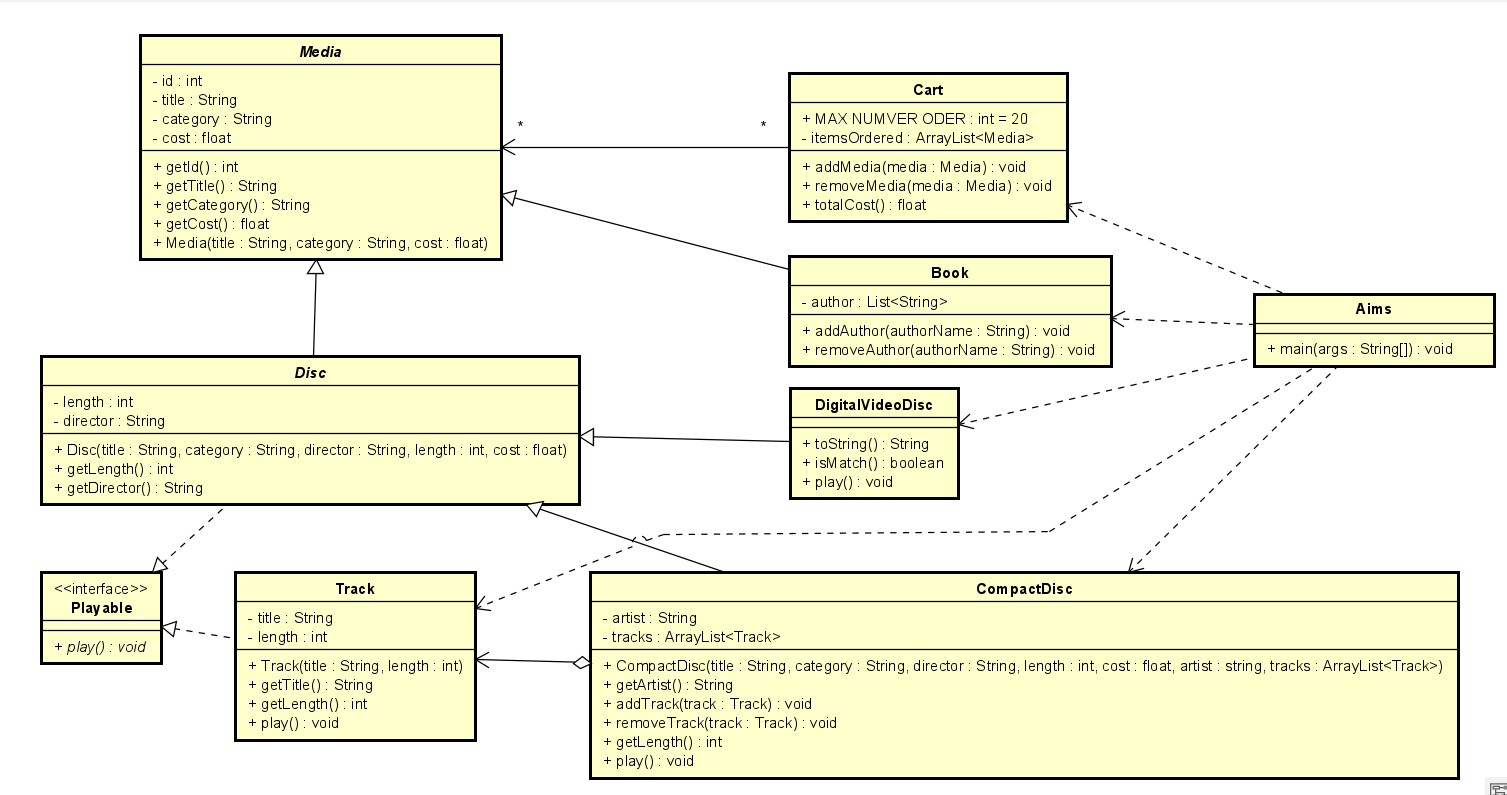
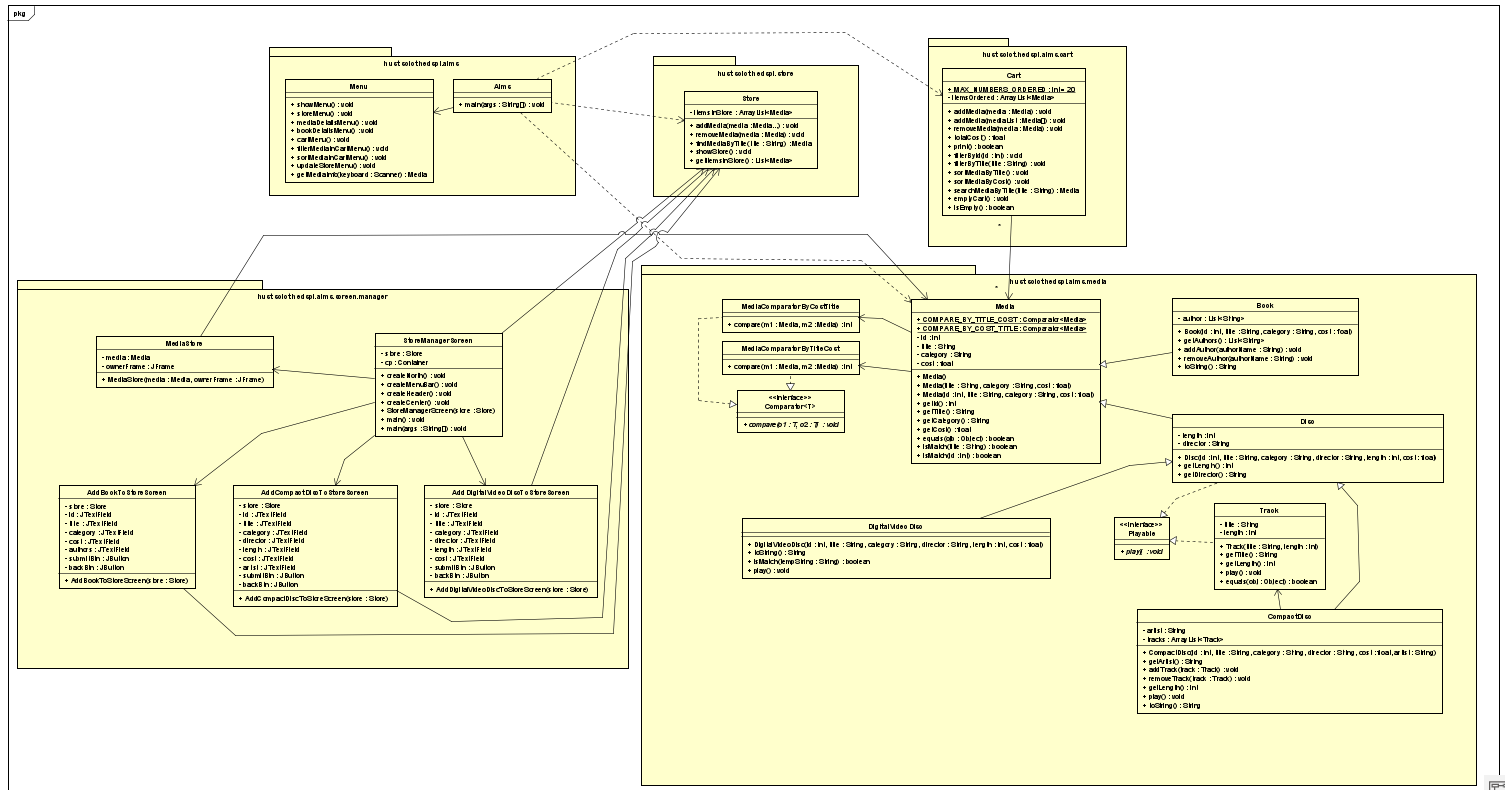
update class diagram

diff --git a/AimsProject/src/hust/soict/hedspi/aims/Aims.java b/AimsProject/src/hust/soict/hedspi/aims/Aims.java
@@ -4,8 +4,6 @@ import hust.soict.hedspi.aims.cart.Cart;
 import hust.soict.hedspi.aims.media.*;
 import hust.soict.hedspi.store.Store;
 
-import java.util.ArrayList;
-import java.util.List;
 import java.util.Scanner;
 
 

diff --git a/AimsProject/src/hust/soict/hedspi/aims/screen/manager/StoreManagerScreen.java b/AimsProject/src/hust/soict/hedspi/aims/screen/manager/StoreManagerScreen.java
@@ -1,7 +1,6 @@
 package hust.soict.hedspi.aims.screen.manager;
 
 import hust.soict.hedspi.aims.media.Media;
-import hust.soict.hedspi.aims.media.Menu;
 import hust.soict.hedspi.store.Store;
 
 import javax.swing.*;

diff --git a/AimsProject/src/hust/soict/hedspi/aims/Menu.java b/AimsProject/src/hust/soict/hedspi/aims/Menu.java
@@ -1,4 +1,6 @@
-package hust.soict.hedspi.aims.media;
+package hust.soict.hedspi.aims;
+
+import hust.soict.hedspi.aims.media.*;
 
 import java.util.ArrayList;
 import java.util.List;
